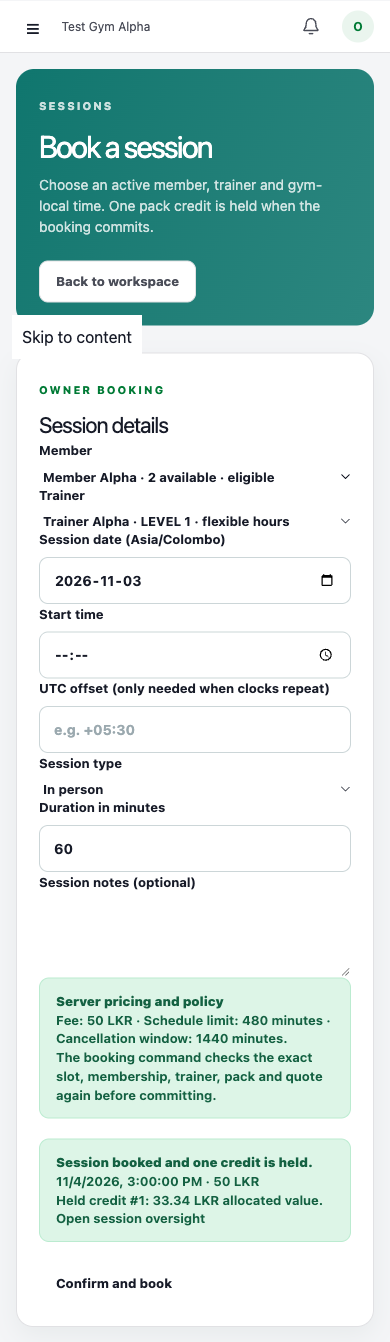
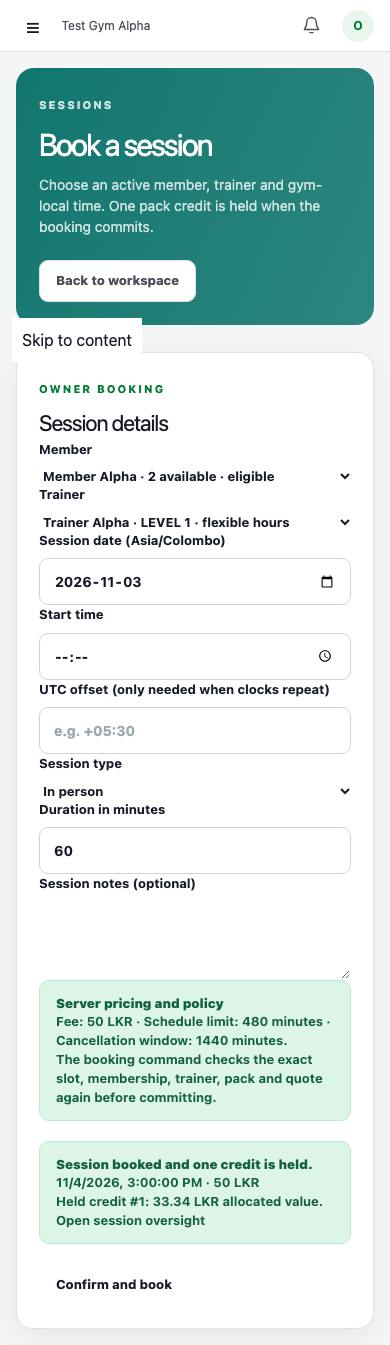
test(migration): refresh booking and notification evidence

diff --git a/docs/migration/evidence/GYMOS-MIG-041.md b/docs/migration/evidence/GYMOS-MIG-041.md
@@ -1,6 +1,6 @@
 # GYMOS-MIG-041 — owner session booking
 
-Status: **In Progress; API and owner form implemented, guarded API and headed browser checks passed, full acceptance remains open.** Evidence captured 3 November 2026 from uncommitted working-tree changes. No commit or hosted checks exist.
+Status: **In Progress; API and owner form implemented, guarded API and headed browser checks passed, full acceptance remains open.** Evidence captured 3 November 2026 on `codex/segment-06-management` at the Segment 06/07 migration checkpoint. Hosted checks and owner-observed review remain open.
 
 ## Implemented
 
@@ -22,6 +22,12 @@ Status: **In Progress; API and owner form implemented, guarded API and headed br
 - `pnpm --dir apps/web exec eslint src/app/session-booking-actions.ts 'src/app/gyms/[slug]/owner/sessions/book/page.tsx' src/components/sessions/owner-session-booking-form.tsx` — exit 0.
 - `pnpm --dir apps/web exec eslint src/app/session-booking-actions.ts 'src/app/gyms/[slug]/owner/sessions/book/page.tsx' src/components/sessions/owner-session-booking-form.tsx tests/owner-session-booking.e2e.spec.ts` — exit 0.
 - The screenshot was reviewed by the agent. The CUA browser access host was unavailable, and native Chrome continued to show the existing GitHub PR #7 window. This is headed Playwright evidence, not independent or owner-observed acceptance. No hosted checks have run.
+
+### Isolated browser verification rerun — 3 November 2026
+
+- `GYMOS_TEST_ALLOW_DOCKER=1 pnpm --dir apps/web exec playwright test --config playwright.config.ts tests/owner-session-booking.e2e.spec.ts tests/notifications-bell.e2e.spec.ts --workers=1` — exit 0; 2/2 tests passed in isolated headless Chromium using separate disposable two-gym fixtures and loopback API/web servers. The booking test reverified owner booking, quoted fee, credit allocation, persisted session/hold/notification and refreshed [owner-booking-390.png](GYMOS-MIG-041/owner-booking-390.png). The notification test verified selected-gym listing, explicit read state, API failure recovery and refreshed [notifications-bell-390.png](GYMOS-MIG-043/notifications-bell-390.png).
+- Each spec reported cleanup of six owned databases, its temporary PostgreSQL container and ownership manifest. The pre-existing `gymos-v2-db-1` development container remained untouched. These are agent-run automated checks; the headless test browser is separate from the visible Chrome walkthrough.
+- Both screenshots were inspected after capture. Owner-visible walkthrough and hosted checks remain pending; this rerun does not close either acceptance gate.
 
 ## Remaining acceptance
 

diff --git a/docs/migration/evidence/GYMOS-MIG-043.md b/docs/migration/evidence/GYMOS-MIG-043.md
@@ -1,6 +1,6 @@
 # GYMOS-MIG-043 — selected-gym notifications and audit reads
 
-Status: **In Progress; minimum read/UI foundation verified, event-producing session workflows incomplete.** Evidence was captured 3 November 2026 from uncommitted working-tree changes on `codex/segment-06-management`, based on `7c09fd4`. No commit or hosted PR checks exist for this work.
+Status: **In Progress; minimum read/UI foundation verified, event-producing session workflows incomplete.** Evidence was captured 3 November 2026 on `codex/segment-06-management` at the Segment 06/07 migration checkpoint. Hosted PR checks remain open.
 
 ## Implemented foundation
 
@@ -28,3 +28,9 @@ Notification table DDL is part of the additive tenant migration with checksum `7
 - Task 033 guarded recovery and cross-gym suite passed 1/1; its in-process Nest/Supertest guard route passed 1/1. Task 047's guarded suite passed 5/5, including a cancel/no-show race with exactly one persisted terminal event, notification, settlement, movement and earning. Tasks 041/042 and 045/046 have linked guarded evidence for their producers.
 - The latest Task044 headed browser run passed 1/1 and verified role-specific read/quote controls. It was agent-performed Playwright automation and screenshot review, not owner-observed Chrome acceptance.
 - Task 043 remains In Progress pending final hosted checks and owner-visible review.
+
+## Isolated browser verification rerun — 3 November 2026
+
+- The shared one-worker Playwright command recorded in [Task 041 evidence](GYMOS-MIG-041.md) ran this notification spec in isolated headless Chromium — exit 0; 1/1 test passed. It covered notification listing, links, explicit mark-read/all-read actions, unread state after API outage and recovery, and the 390px responsive layout.
+- The two-gym fixture runner reported six owned databases dropped, its PostgreSQL container removed and its run manifest removed. The refreshed [390px bell screenshot](GYMOS-MIG-043/notifications-bell-390.png) was inspected and stays within the viewport.
+- This automated rerun is not owner-observed Chrome acceptance. Task 043 remains In Progress pending hosted checks and the visible walkthrough.

diff --git a/docs/migration/evidence/SEGMENTS-06-07-ACCEPTANCE.md b/docs/migration/evidence/SEGMENTS-06-07-ACCEPTANCE.md
@@ -48,3 +48,9 @@ Working checklist created 3 November 2026 from the segment plans and task specs.
 - **Additional headed review evidence:** the role session/read journey passed 1/1, and a second Chrome-channel run of the directory/request/accept/decline journey passed 1/1. The guarded harnesses reported cleanup of six disposable databases, the container and run manifest. These are agent-performed automated browser checks; no owner-observed review is claimed.
 - **Visible review and PR status:** CUA still lists no browser-control provider. Native Chrome showed the existing GitHub page, and navigation to the new comparison left a blank rendered content area. `gh` is unavailable. The source branch is pushed, but a draft PR and hosted checks are not yet available.
 - **Scope boundary:** the owner approved storing trainer decline reasons with member-only visibility. The owner also chose to preserve Segment 08 ownership of Task 049. No Task 049 code was included; Task 048 remains gated on Task 049.
+
+## Isolated browser rerun — 3 November 2026
+
+- `GYMOS_TEST_ALLOW_DOCKER=1 pnpm --dir apps/web exec playwright test --config playwright.config.ts tests/owner-session-booking.e2e.spec.ts tests/notifications-bell.e2e.spec.ts --workers=1` — exit 0; 2/2 passed in headless Chromium with one worker. The suite ran the documented disposable PostgreSQL harness, synthetic two-gym fixtures, and isolated loopback API/web servers; no repository `.env` was loaded.
+- Both spec cleanups reported six owned databases dropped, the per-spec container removed, and the ownership manifest removed. The pre-existing `gymos-v2-db-1` development container was left untouched. Updated screenshots were inspected and recorded in Tasks 041 and 043 evidence.
+- This rerun adds agent-performed automated evidence only. Owner-visible review remains paused until Chrome is restarted and control confirms the intended GymOS window. Task 048 remains gated on Task 049.
